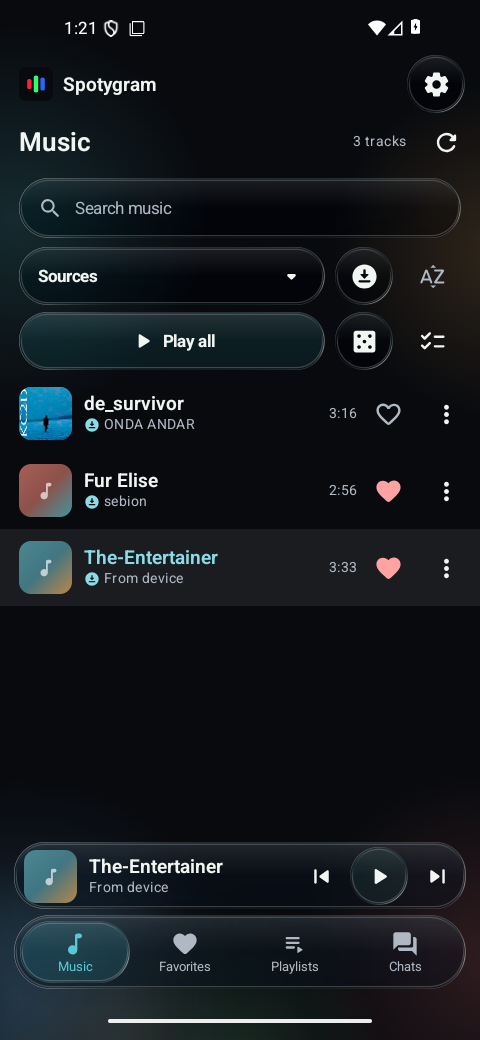
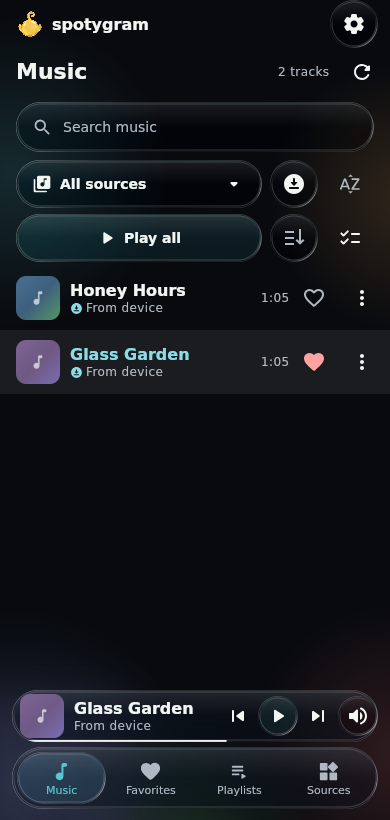
feat: adopt honey-glass identity and lowercase wordmark

diff --git a/desktop/src/main/kotlin/app/spotygram/BrandIcons.kt b/desktop/src/main/kotlin/app/spotygram/BrandIcons.kt
@@ -1,49 +1,50 @@
 package app.spotygram
 
 import java.io.File
+import java.awt.RenderingHints
+import java.awt.image.BufferedImage
+import java.io.ByteArrayOutputStream
 import java.nio.ByteBuffer
 import java.nio.ByteOrder
-import javax.xml.parsers.DocumentBuilderFactory
-import org.jetbrains.skia.EncodedImageFormat
-import org.jetbrains.skia.Paint
-import org.jetbrains.skia.Path
-import org.jetbrains.skia.Surface
-import org.w3c.dom.Element
+import javax.imageio.ImageIO
 
-/** Launcher icons are generated from the same vector used by the shared interface. */
+/** Launcher icons preserve the same glass artwork used by the shared interface. */
 object BrandIcons {
     fun write(directory: File) {
         directory.mkdirs()
-        val document = checkNotNull(javaClass.classLoader.getResourceAsStream("drawable/spotygram_mark.xml"))
-            .use { DocumentBuilderFactory.newInstance().apply { isNamespaceAware = true }.newDocumentBuilder().parse(it) }
-        val nodes = document.getElementsByTagName("path")
+        val original = checkNotNull(javaClass.classLoader.getResourceAsStream("drawable-nodpi/spotygram_mark.png"))
+            .use { checkNotNull(ImageIO.read(it)) }
         fun png(size: Int): ByteArray {
-            Surface.makeRasterN32Premul(size, size).use { surface ->
-                surface.canvas.scale(size / 108f, size / 108f)
-                Paint().use { paint ->
-                    paint.isAntiAlias = true
-                    for (i in 0 until nodes.length) {
-                        val element = nodes.item(i) as Element
-                        val color = element.getAttributeNS("http://schemas.android.com/apk/res/android", "fillColor").removePrefix("#").toLong(16)
-                        paint.color = (color or 0xff000000L).toInt()
-                        Path.makeFromSVGString(element.getAttributeNS("http://schemas.android.com/apk/res/android", "pathData")).use { path ->
-                            surface.canvas.drawPath(path, paint)
-                        }
-                    }
-                }
-                return surface.makeImageSnapshot().use { image ->
-                    checkNotNull(image.encodeToData(EncodedImageFormat.PNG)).use { it.bytes }
-                }
+            val image = BufferedImage(size, size, BufferedImage.TYPE_INT_ARGB)
+            val graphics = image.createGraphics()
+            try {
+                graphics.setRenderingHint(RenderingHints.KEY_INTERPOLATION, RenderingHints.VALUE_INTERPOLATION_BICUBIC)
+                graphics.drawImage(original, 0, 0, size, size, null)
+            } finally {
+                graphics.dispose()
+            }
+            return ByteArrayOutputStream().use { output ->
+                check(ImageIO.write(image, "png", output))
+                output.toByteArray()
             }
         }
-        val icon = png(256)
         File(directory, "spotygram.png").writeBytes(png(512))
-        val header = ByteBuffer.allocate(22).order(ByteOrder.LITTLE_ENDIAN)
-        header.putShort(0).putShort(1).putShort(1)
-        header.put(0).put(0).put(0).put(0).putShort(1).putShort(32)
-        header.putInt(icon.size).putInt(22)
-        File(directory, "spotygram.ico").writeBytes(header.array() + icon)
-        val chunks = listOf("ic07" to 128, "ic08" to 256, "ic09" to 512, "ic10" to 1024).map { (kind, size) ->
+        val sizes = listOf(16, 24, 32, 48, 64, 128, 256)
+        val images = sizes.map(::png)
+        val header = ByteBuffer.allocate(6 + sizes.size * 16).order(ByteOrder.LITTLE_ENDIAN)
+        header.putShort(0).putShort(1).putShort(sizes.size.toShort())
+        var offset = header.capacity()
+        sizes.zip(images).forEach { (size, image) ->
+            header.put((size % 256).toByte()).put((size % 256).toByte()).put(0).put(0).putShort(1).putShort(32)
+            header.putInt(image.size).putInt(offset)
+            offset += image.size
+        }
+        File(directory, "spotygram.ico").outputStream().use { output ->
+            output.write(header.array())
+            images.forEach(output::write)
+        }
+        val chunks = listOf("icp4" to 16, "icp5" to 32, "icp6" to 64, "ic07" to 128,
+            "ic08" to 256, "ic09" to 512, "ic10" to 1024).map { (kind, size) ->
             val data = png(size)
             kind.toByteArray(Charsets.US_ASCII) + ByteBuffer.allocate(4).putInt(data.size + 8).array() + data
         }.fold(ByteArray(0)) { result, chunk -> result + chunk }

diff --git a/desktop/src/main/kotlin/app/spotygram/DesktopMain.kt b/desktop/src/main/kotlin/app/spotygram/DesktopMain.kt
@@ -38,16 +38,16 @@ fun main(arguments: Array<String>) {
         return
     }
     System.setProperty("nucleus.app.id", "app.spotygram")
-    System.setProperty("nucleus.app.name", "Spotygram")
+    System.setProperty("nucleus.app.name", "spotygram")
     System.setProperty("nucleus.app.version", BuildConfig.VERSION_NAME)
     System.setProperty("nucleus.app.aumid", "app.spotygram")
     val platform = try { DesktopPlatform() } catch (error: Exception) {
-        JOptionPane.showMessageDialog(null, error.message, "Spotygram", JOptionPane.ERROR_MESSAGE)
+        JOptionPane.showMessageDialog(null, error.message, "spotygram", JOptionPane.ERROR_MESSAGE)
         return
     }
     val instance = try { DesktopInstance(platform.filesDir) } catch (error: Exception) {
         platform.close()
-        JOptionPane.showMessageDialog(null, error.message, "Spotygram", JOptionPane.ERROR_MESSAGE)
+        JOptionPane.showMessageDialog(null, error.message, "spotygram", JOptionPane.ERROR_MESSAGE)
         return
     }
     if (!instance.primary) {
@@ -151,7 +151,7 @@ fun main(arguments: Array<String>) {
                         if (traySupported) visible = false else windowState.isMinimized = true
                     } else quit()
                 },
-                title = "Spotygram",
+                title = "spotygram",
                 state = windowState,
                 visible = visible,
                 icon = painterResource(R.drawable.spotygram_mark),
@@ -193,7 +193,7 @@ fun main(arguments: Array<String>) {
                     }
                 }
             }
-            if (traySupported) Tray(icon = painterResource(R.drawable.spotygram_mark), tooltip = "Spotygram",
+            if (traySupported) Tray(icon = painterResource(R.drawable.spotygram_mark), tooltip = "spotygram",
                 onAction = ::show, menu = {
                     Item(tr(R.string.show_window), onClick = ::show)
                     Separator()
@@ -204,7 +204,7 @@ fun main(arguments: Array<String>) {
         kotlinx.coroutines.runBlocking { started?.close() }
         instance.close()
         platform.close()
-        JOptionPane.showMessageDialog(null, error.message ?: "Spotygram could not start", "Spotygram", JOptionPane.ERROR_MESSAGE)
+        JOptionPane.showMessageDialog(null, error.message ?: "spotygram could not start", "spotygram", JOptionPane.ERROR_MESSAGE)
         error.printStackTrace()
         kotlin.system.exitProcess(1)
     }

diff --git a/desktop/src/main/kotlin/app/spotygram/DesktopPlatform.kt b/desktop/src/main/kotlin/app/spotygram/DesktopPlatform.kt
@@ -52,7 +52,7 @@ class DesktopPlatform : Platform, AutoCloseable {
 
     init {
         listOf(filesDir, cacheDir).forEach { directory ->
-            check(directory.isDirectory || directory.mkdirs()) { "Spotygram storage could not be created" }
+            check(directory.isDirectory || directory.mkdirs()) { "spotygram storage could not be created" }
             if (DesktopTarget.os != "windows") Files.setPosixFilePermissions(directory.toPath(),
                 setOf(PosixFilePermission.OWNER_READ, PosixFilePermission.OWNER_WRITE, PosixFilePermission.OWNER_EXECUTE))
         }
@@ -67,7 +67,7 @@ class DesktopPlatform : Platform, AutoCloseable {
         val db = DesktopDatabase(File(filesDir, name))
         try {
             val old = db.rawQuery("PRAGMA user_version", null).use { it.moveToFirst(); it.getInt(0) }
-            check(old <= version) { "This library needs a newer Spotygram version" }
+            check(old <= version) { "This library needs a newer spotygram version" }
             if (old < version) db.transaction {
                 if (old == 0) create(this) else upgrade(this, old, version)
                 execSQL("PRAGMA user_version=$version")

diff --git a/shared/src/main/kotlin/app/spotygram/AuthScreen.kt b/shared/src/main/kotlin/app/spotygram/AuthScreen.kt
@@ -77,12 +77,12 @@ fun AuthScreen(app: SpotygramApp, auth: AuthState, onLocal: () -> Unit, onBack: 
             if (!phone && auth.canChangePhone) {
                 Row(verticalAlignment = Alignment.CenterVertically, horizontalArrangement = Arrangement.spacedBy(12.dp)) {
                     Image(painterResource(R.drawable.spotygram_mark), null, Modifier.size(40.dp))
-                    Text("Spotygram", style = MaterialTheme.typography.headlineSmall)
+                    Text("spotygram", style = MaterialTheme.typography.headlineSmall)
                 }
             } else {
                 Image(painterResource(R.drawable.spotygram_mark), null, Modifier.size(64.dp))
                 Spacer(Modifier.height(16.dp))
-                Text("Spotygram", style = MaterialTheme.typography.headlineLarge)
+                Text("spotygram", style = MaterialTheme.typography.headlineLarge)
             }
             Spacer(Modifier.height(12.dp))
         }

diff --git a/app/src/main/java/app/spotygram/PlaybackService.kt b/app/src/main/java/app/spotygram/PlaybackService.kt
@@ -9,6 +9,7 @@ import androidx.media3.exoplayer.ExoPlayer
 import androidx.media3.exoplayer.source.DefaultMediaSourceFactory
 import androidx.media3.session.MediaSession
 import androidx.media3.session.MediaSessionService
+import androidx.media3.session.DefaultMediaNotificationProvider
 import androidx.media3.session.SessionResult
 import androidx.media3.common.Player as NativePlayer
 
@@ -20,6 +21,9 @@ class PlaybackService : MediaSessionService() {
 
     override fun onCreate() {
         super.onCreate()
+        setMediaNotificationProvider(DefaultMediaNotificationProvider(this).apply {
+            setSmallIcon(R.drawable.ic_notification)
+        })
         val player = ExoPlayer.Builder(this)
             .setLoadControl(DefaultLoadControl.Builder()
                 .setBufferDurationsMs(15000, 30000, 1000, 2000).build())

diff --git a/app/src/main/java/app/spotygram/UpdateInstaller.kt b/app/src/main/java/app/spotygram/UpdateInstaller.kt
@@ -101,7 +101,7 @@ class UpdateInstaller(private val app: AndroidApplication) : UpdateInstallation 
                         check(prefs.edit().putString("asset", asset.toJson()).commit())
                         val request =
                             DownloadManager.Request(Uri.parse(asset.url))
-                                .setTitle("Spotygram ${asset.version}")
+                                .setTitle("spotygram ${asset.version}")
                                 .setDescription(tr(R.string.update_downloading))
                                 .setMimeType("application/vnd.android.package-archive")
                                 .setNotificationVisibility(

diff --git a/shared/src/main/kotlin/app/spotygram/SpotygramUI.kt b/shared/src/main/kotlin/app/spotygram/SpotygramUI.kt
@@ -533,7 +533,7 @@ fun SpotygramUI(
                                             Modifier.size(28.dp),
                                         )
                                         Text(
-                                            "Spotygram",
+                                            "spotygram",
                                             Modifier.weight(1f).padding(start = 8.dp),
                                             style = MaterialTheme.typography.titleMedium,
                                         )

diff --git a/desktop/src/main/kotlin/app/spotygram/DesktopUi.kt b/desktop/src/main/kotlin/app/spotygram/DesktopUi.kt
@@ -23,7 +23,7 @@ fun BackHandler(enabled: Boolean = true, onBack: () -> Unit) {
 @Composable
 fun painterResource(id: Int): Painter {
     require(id == R.drawable.spotygram_mark)
-    return androidx.compose.ui.res.painterResource("drawable/spotygram_mark.xml")
+    return androidx.compose.ui.res.painterResource("drawable-nodpi/spotygram_mark.png")
 }
 
 @Composable

diff --git a/shared/src/main/kotlin/app/spotygram/SettingsSheet.kt b/shared/src/main/kotlin/app/spotygram/SettingsSheet.kt
@@ -292,7 +292,7 @@ fun SettingsSheet(
         }
         UpdateSettings(app)
         Text(
-            "Spotygram ${BuildConfig.VERSION_NAME}",
+            "spotygram ${BuildConfig.VERSION_NAME}",
             Modifier.padding(top = 20.dp),
             style = MaterialTheme.typography.titleMedium,
         )

diff --git a/docs/verification.ru.md b/docs/verification.ru.md
@@ -7,6 +7,34 @@
 Проверки используют упакованные приложения, действия в UI и рабочие логи.
 Временный код проверок, записи, снимки и данные аккаунта находятся вне исходников.
 
+## 0.22.0 — медовый стеклянный знак
+
+Упакованное приложение Linux показало выбранный жёлтый стеклянный знак с
+антенной-завитком и название `spotygram` строчными буквами. Настоящие скриншоты
+охватили вход, библиотеку и плеер, обе темы, русский/английский языки и окна
+390/1100 пикселей. Светлые блики сохранили непрозрачность, фон — прозрачность.
+Две локальные WAV-записи импортировались; нативное воспроизведение libmpv с null
+audio output, пауза и избранное работали. Обычный выход закрыл приложение.
+Баннер README и снимок библиотеки показывают выбранный знак; старые изображения
+подписаны.
+
+Android debug/release-сборки и обе проверки Lint прошли. Подписанные APK имеют
+версию 0.22.0, versionCode 42, прежние ID приложения и сертификат и выравнивание
+16 КБ. Сохранённый эмулятор Android 15 обновился с 0.21.1; установленный APK
+побайтно совпал с релизным файлом. Сразу после обновления все одиннадцать таблиц
+каталога и поля локальных очереди/позиции совпали с исходными, включая 8 910 мс;
+целостность SQLite — `ok`. Настоящие скриншоты показали иконку лаунчера,
+английскую светлую и русскую тёмную библиотеку и полную строку бренда при
+320 dp со шрифтом 1.3. Язык и тема менялись с клавиатуры. Отправка касаний в этом
+эмуляторе работала ненадёжно; отзывчивость физических сенсорных устройств этим
+не подтверждается.
+
+Физические устройства, настоящий звук, речь экранного диктора, действия с
+авторизованным Telegram и интерактивная работа Windows/macOS в этом цикле не
+проверялись. Ресурсы уведомлений и тематических иконок используют соответствующий
+белый силуэт; тематический режим лаунчера и активное музыкальное уведомление
+Android визуально не проверены.
+
 ## 0.21.1 — короткая кнопка профиля по центру
 
 Скомпилированный общий интерфейс показал «В профиль» / «Убрать» по центру под строкой

diff --git a/docs/architecture.ru.md b/docs/architecture.ru.md
@@ -327,9 +327,16 @@ SMS Retriever и Firebase не заявляется.
 
 ## Визуальная система и работа в покое
 
-Строки ENG/RU и RGB-вектор хранятся в общих XML. Android использует штатные ресурсы,
-desktop читает те же файлы. `Design.kt` передаёт явные захваты фона/содержимого
-в Haze Glass 2.0.1. Элементы управления находятся вне своего захвата; плотное стекло
+Строки ENG/RU хранятся в общих XML. Медовый стеклянный знак с округлыми ушами
+и антенной-завитком — один прозрачный PNG в `shared/`; Android и desktop загружают
+одинаковое изображение. В интерфейсе название пишется как `spotygram`. Упаковка
+desktop получает из этого изображения PNG, ICO с несколькими размерами и ICNS.
+Android сохраняет знак в безопасной области адаптивной иконки и использует
+соответствующий белый силуэт для тематических иконок и уведомлений. Эти статичные
+ресурсы не требуют отдельного эффекта стекла или анимации.
+
+`Design.kt` передаёт явные захваты фона/содержимого в Haze Glass 2.0.1.
+Элементы управления находятся вне своего захвата; плотное стекло
 рассеивает текст под ним. Основное преломление края, дисперсия и свет сохранены,
 вторичный проход деталей отключён. Эффектов на строках и анимированных обоев нет.
 Desktop и Android 13+ используют полную оптику; старый Android — более плотный tint,

diff --git a/README.ru.md b/README.ru.md
@@ -3,7 +3,7 @@
 </p>
 
 <p align="center">
-  <img src="docs/banner.svg" alt="Spotygram — музыкальный плеер для Telegram" width="100%">
+  <img src="docs/banner.png" alt="spotygram — музыкальный плеер с медовым стеклянным знаком и антенной-завитком" width="100%">
 </p>
 
 <p align="center">
@@ -47,7 +47,8 @@ Spotygram играет эту коллекцию на **Android, Windows, Linux 
   <img src="docs/screenshots/profile-dark.png" width="30%" alt="Прослушивание чужого профиля до добавления в медиатеку">
 </p>
 
-Экраны показывают демонстрационные источники и записи в общем desktop-интерфейсе.
+Экраны показывают демонстрационные источники и записи в общем desktop-интерфейсе,
+до появления медового стеклянного знака в 0.22.0.
 
 Войди в тот же Telegram-аккаунт на другом устройстве: плейлисты, любимые песни,
 выбранные чаты и профили, а также настройки библиотеки восстановятся автоматически. У каждого устройства
@@ -63,8 +64,8 @@ Spotygram играет эту коллекцию на **Android, Windows, Linux 
   <img src="docs/screenshots/playlists-light.png" width="30%" alt="Плейлисты в светлой теме">
 </p>
 
-Снимки библиотеки, плеера и плейлистов выше сделаны в 0.18.0;
-четвёртая вкладка теперь называется «Источники».
+Снимок библиотеки показывает 0.22.0 с медовым стеклянным знаком. Снимки плеера
+и плейлистов сделаны в 0.18.0; четвёртая вкладка теперь называется «Источники».
 
 ## Установить на телефон
 
